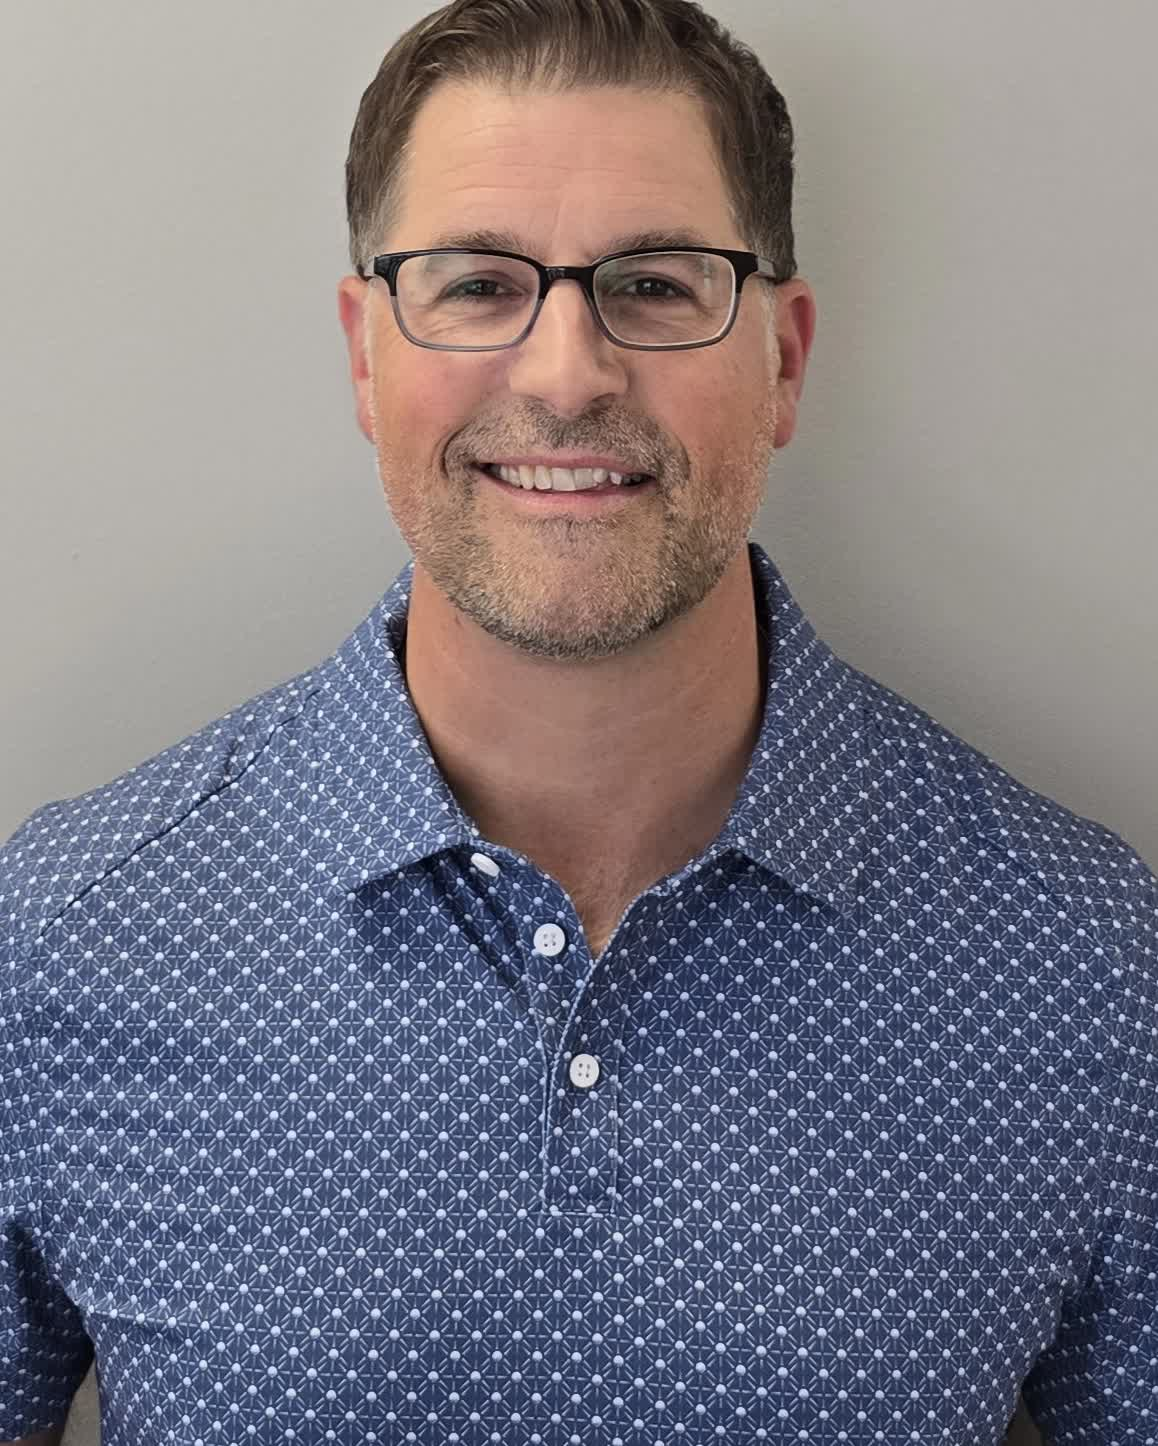
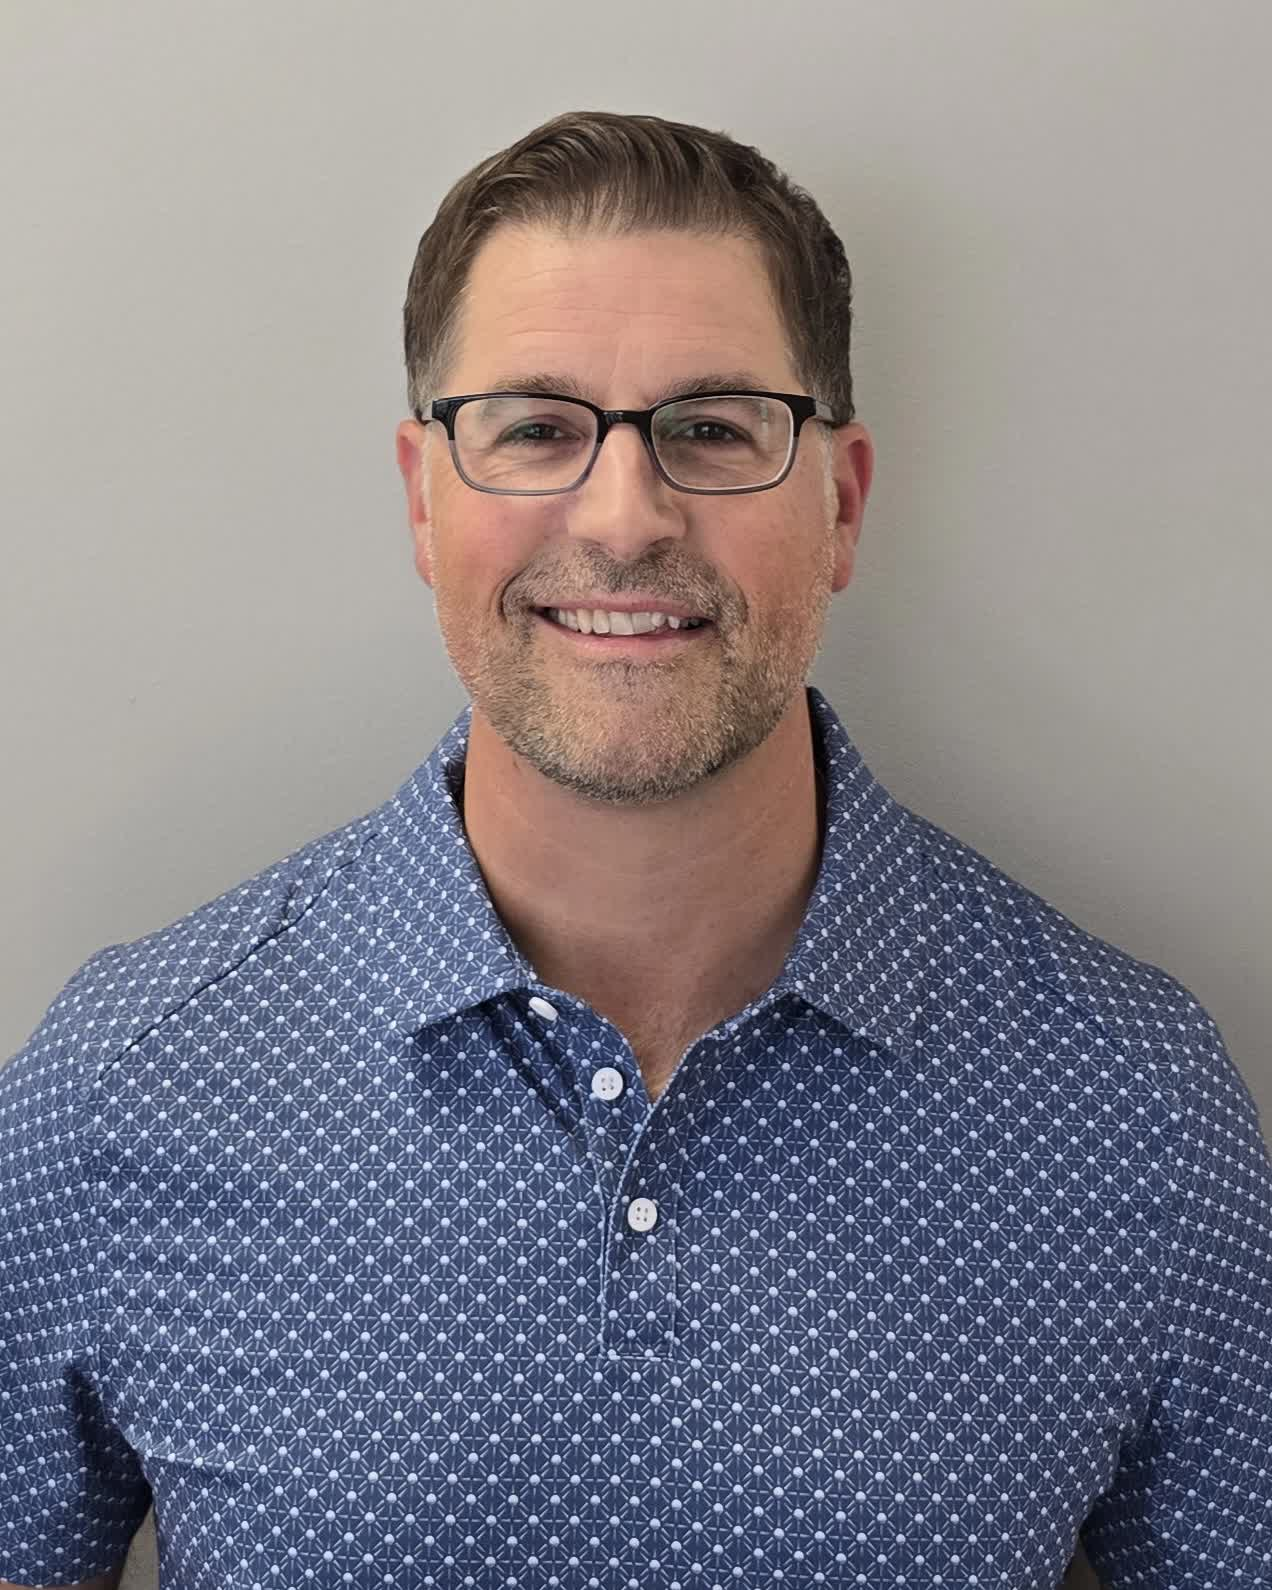
Update Anthony Leazzo photo and re-crop Nathan Conroy to reduce zoom, matching Jeff Floyd framing

diff --git a/app/our-providers/page.tsx b/app/our-providers/page.tsx
@@ -105,8 +105,8 @@ const PROVIDERS = [
     image: {
       src: "/images/providers/nathan-conroy-zoom.jpg",
       alt: "Nathan Conroy, DC, Chiropractic & Physical Medicine at Genesis Integrative Medicine",
-      width: 1158,
-      height: 1446,
+      width: 1272,
+      height: 1590,
     },
     bio: [
       "Nathan Conroy, DC, is certain that a healthy spine is key to a long, happy life. At Genesis Integrative Medicine in Geneva, Illinois, Dr. Conroy, DC, offers a variety of services to improve his patients\u2019 physical and overall health without medications or surgery. Inspired by his grandfather, a medical doctor, he pursued his degree in chiropractic care because of the many benefits chiropractic adjustments offer to the body. He brings over 15 years of experience in chiropractic care to Genesis Integrative Medicine.",
@@ -134,10 +134,10 @@ const PROVIDERS = [
     name: "Dr. Anthony Leazzo, DO",
     title: "Clinic Director",
     image: {
-      src: "/images/providers/anthony-leazzo.jpg",
+      src: "/images/providers/anthony-leazzo-new.jpg",
       alt: "Dr. Anthony Leazzo, DO, Clinic Director at Genesis Integrative Medicine",
-      width: 1373,
-      height: 1400,
+      width: 885,
+      height: 1106,
     },
     bio: [
       "As Clinic Director and a Doctor of Osteopathic Medicine, Dr. Anthony Leazzo, DO, leads the medical team at Genesis Integrative Medicine with a simple philosophy: rather than treat every ill with a pill, consider the benefits of an integrative approach to achieving a happy, pain-free life.",

diff --git a/app/components/about/AboutPageView.tsx b/app/components/about/AboutPageView.tsx
@@ -125,7 +125,7 @@ const PROVIDERS = [
     name: "Anthony Leazzo, DO",
     title: "Clinic Director",
     image: {
-      src: "/images/providers/anthony-leazzo.jpg",
+      src: "/images/providers/anthony-leazzo-new.jpg",
       alt: "Dr. Anthony Leazzo, DO, Clinic Director at Genesis Integrative Medicine",
     },
     href: "/our-providers/",

diff --git a/app/lib/site-config.ts b/app/lib/site-config.ts
@@ -147,7 +147,7 @@ export const PROVIDERS = [
     name: "Dr. Anthony Leazzo",
     credentials: "DO",
     title: "Clinic Director",
-    image: "/images/providers/anthony-leazzo.jpg",
+    image: "/images/providers/anthony-leazzo-new.jpg",
     href: "/our-providers/",
   },
 ] as const;
